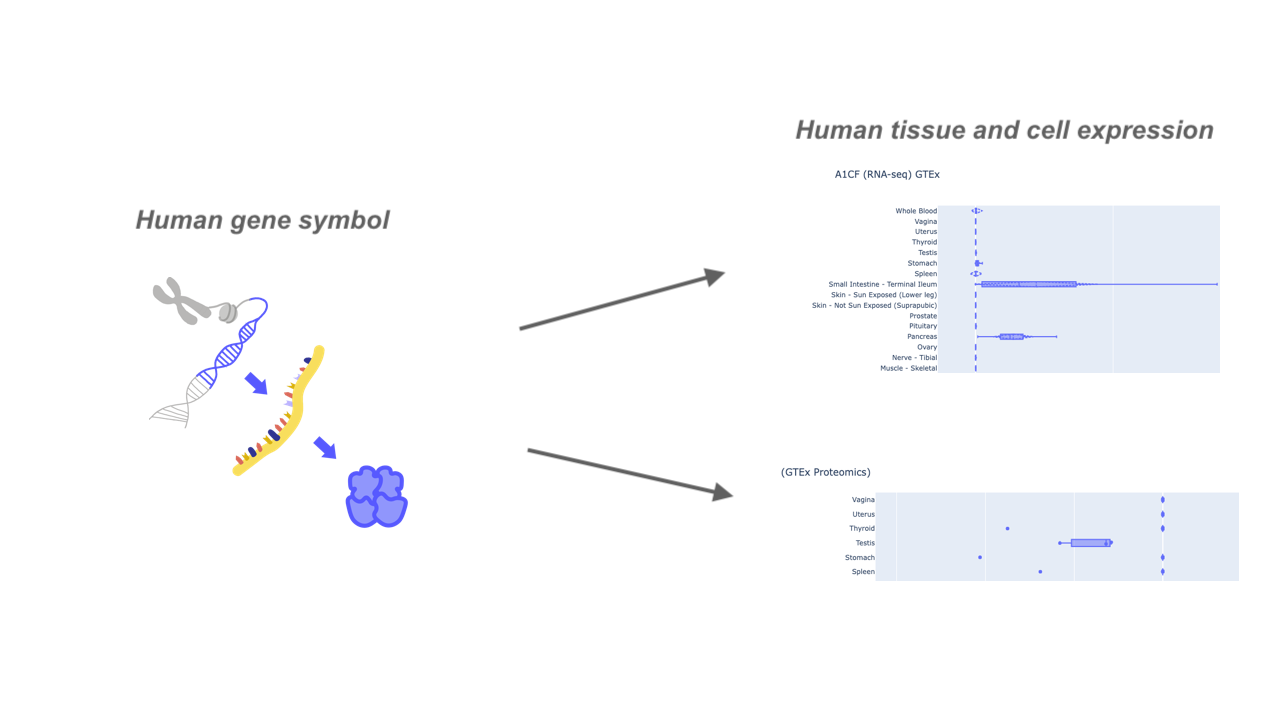
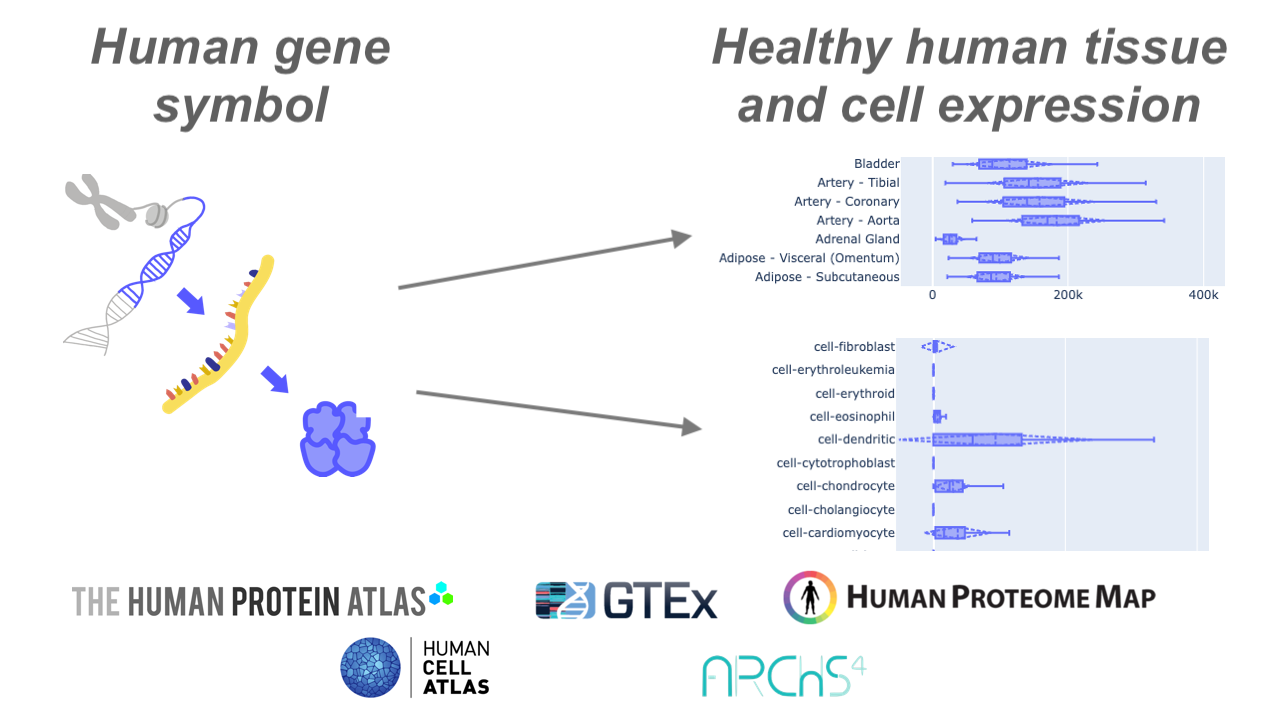
implement feedback
update thumbnail, README and text in notebook

diff --git a/appyters/Gene_Expression_by_Tissue/README.md b/appyters/Gene_Expression_by_Tissue/README.md
@@ -1,10 +1,12 @@
 # Gene Expression across Human Cells and Tissues
 
-This Appyter is allows for the inputting of a human gene symbol and its expression over a variety of processed datasets is shown.
+The Appyter takes a human gene symbol as the input to produce box plots that display its expression across human cell types and tissue at the mRNA and protein levels.
 
-This appyter utilizes normal tissue data from GTEx [1] and GEO data through ARCHS4 [2]. The Genotype-Tissue Expression (GTEx) Project was supported by the Common Fund of the Office of the Director of the National Institutes of Health, and by NCI, NHGRI, NHLBI, NIDA, NIMH, and NINDS [1]. GTEx Version 8 gene counts were processed to produced gene summary statistics. ARCHS4 provides access to gene counts from HiSeq 2000, HiSeq 2500 and NextSeq 500 platforms for human and mouse experiments from GEO and SRA [2]. ARCHS4 Version 11 was processed to produce gene summary statistics.
+This appyter utilizes normal tissue gene and protien expression from [GTEx](https://gtexportal.org/home/) [1], [ARCHS4](https://maayanlab.cloud/archs4/) [2], the [Human Protein Atlas](https://www.proteinatlas.org/about/download) [3], the [Human Proteome Map](https://www.humanproteomemap.org/download.php) [4], and the [GTEx proteome project](https://doi.org/10.1016/j.cell.2020.08.036) [5].
 
-Proteomics data were obtained from the [Human Protein Atlas](https://www.proteinatlas.org/about/download) [3] with IHC-based expression profiling, the [Human Proteome Map](https://www.humanproteomemap.org/download.php) [4] with MS-based expression quantification, and a [GTEx proteome project](https://doi.org/10.1016/j.cell.2020.08.036) [5] using TMT MS. 
+The Genotype-Tissue Expression (GTEx) Project was supported by the Common Fund of the Office of the Director of the National Institutes of Health, and by NCI, NHGRI, NHLBI, NIDA, NIMH, and NINDS [1]. GTEx Version 8 gene counts were processed to produced gene summary statistics. ARCHS4 provides access to gene counts from HiSeq 2000, HiSeq 2500 and NextSeq 500 platforms for human and mouse experiments from GEO and SRA [2]. ARCHS4 Version 11 was processed to produce gene summary statistics.
+
+Proteomics data were obtained from the Human Protein Atlas [3] with IHC-based expression profiling, the Human Proteome Map [4] with MS-based expression quantification, and a GTEx proteome project [5] using TMT MS. 
 
 
 [1] Lonsdale, John, et al. "The genotype-tissue expression (GTEx) project." Nature genetics 45.6 (2013): 580-585. <https://doi.org/10.1038/ng.265>
